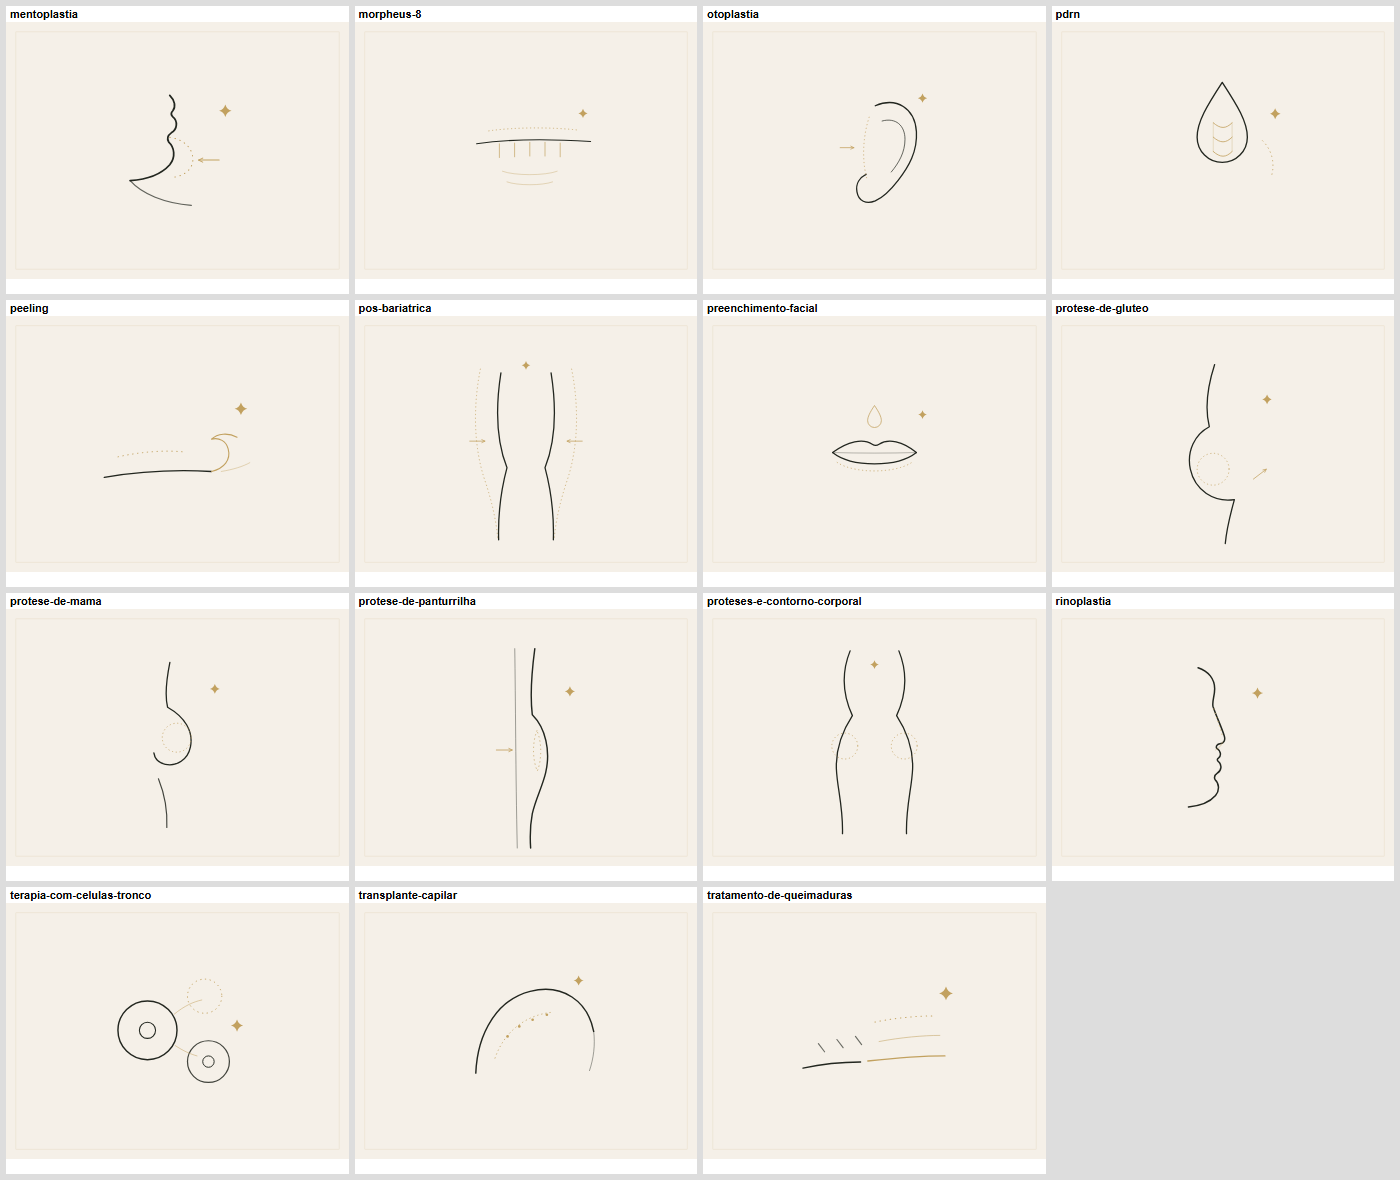
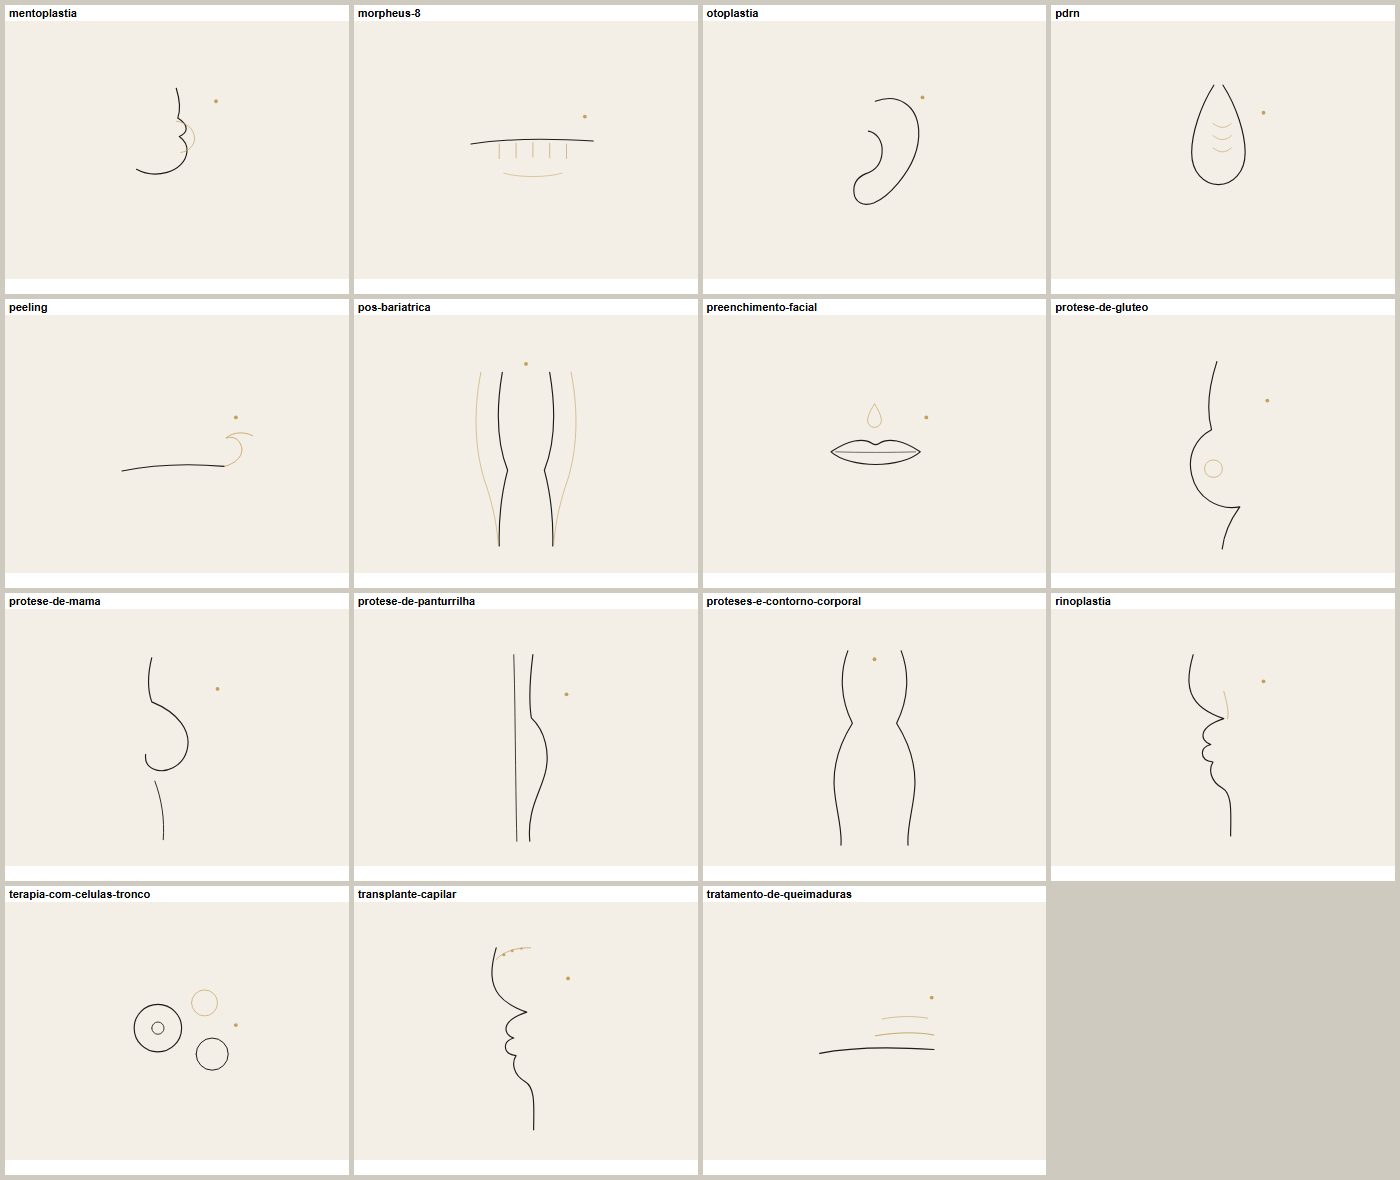
Ilustracoes continuous line art (luxo) nas 31 especialidades

diff --git a/img/ilustracoes/sheet1.html b/img/ilustracoes/sheet1.html
@@ -1,1 +1,1 @@
-<body style="margin:0;background:#ddd;display:grid;grid-template-columns:repeat(4,1fr);gap:6px;padding:6px"><div style="background:#fff"><div style="font:600 11px sans-serif;padding:2px 4px">abdominoplastia</div><img src="abdominoplastia.svg" style="width:100%;display:block"></div><div style="background:#fff"><div style="font:600 11px sans-serif;padding:2px 4px">bichectomia</div><img src="bichectomia.svg" style="width:100%;display:block"></div><div style="background:#fff"><div style="font:600 11px sans-serif;padding:2px 4px">bioestimulador-de-colageno</div><img src="bioestimulador-de-colageno.svg" style="width:100%;display:block"></div><div style="background:#fff"><div style="font:600 11px sans-serif;padding:2px 4px">blefaroplastia</div><img src="blefaroplastia.svg" style="width:100%;display:block"></div><div style="background:#fff"><div style="font:600 11px sans-serif;padding:2px 4px">bodytite</div><img src="bodytite.svg" style="width:100%;display:block"></div><div style="background:#fff"><div style="font:600 11px sans-serif;padding:2px 4px">botox</div><img src="botox.svg" style="width:100%;display:block"></div><div style="background:#fff"><div style="font:600 11px sans-serif;padding:2px 4px">cirurgia-intima</div><img src="cirurgia-intima.svg" style="width:100%;display:block"></div><div style="background:#fff"><div style="font:600 11px sans-serif;padding:2px 4px">correcao-de-cicatriz</div><img src="correcao-de-cicatriz.svg" style="width:100%;display:block"></div><div style="background:#fff"><div style="font:600 11px sans-serif;padding:2px 4px">dermoabrasao</div><img src="dermoabrasao.svg" style="width:100%;display:block"></div><div style="background:#fff"><div style="font:600 11px sans-serif;padding:2px 4px">fios-de-sustentacao</div><img src="fios-de-sustentacao.svg" style="width:100%;display:block"></div><div style="background:#fff"><div style="font:600 11px sans-serif;padding:2px 4px">ginecomastia</div><img src="ginecomastia.svg" style="width:100%;display:block"></div><div style="background:#fff"><div style="font:600 11px sans-serif;padding:2px 4px">harmonizacao-facial</div><img src="harmonizacao-facial.svg" style="width:100%;display:block"></div><div style="background:#fff"><div style="font:600 11px sans-serif;padding:2px 4px">laser-de-co2</div><img src="laser-de-co2.svg" style="width:100%;display:block"></div><div style="background:#fff"><div style="font:600 11px sans-serif;padding:2px 4px">lifting-facial</div><img src="lifting-facial.svg" style="width:100%;display:block"></div><div style="background:#fff"><div style="font:600 11px sans-serif;padding:2px 4px">lipoescultura</div><img src="lipoescultura.svg" style="width:100%;display:block"></div><div style="background:#fff"><div style="font:600 11px sans-serif;padding:2px 4px">mamoplastia</div><img src="mamoplastia.svg" style="width:100%;display:block"></div></body>
+<body style="margin:0;background:#cfcabf;display:grid;grid-template-columns:repeat(4,1fr);gap:5px;padding:5px"><div style="background:#fff"><div style="font:600 11px sans-serif;padding:2px 4px">abdominoplastia</div><img src="abdominoplastia.svg" style="width:100%;display:block"></div><div style="background:#fff"><div style="font:600 11px sans-serif;padding:2px 4px">bichectomia</div><img src="bichectomia.svg" style="width:100%;display:block"></div><div style="background:#fff"><div style="font:600 11px sans-serif;padding:2px 4px">bioestimulador-de-colageno</div><img src="bioestimulador-de-colageno.svg" style="width:100%;display:block"></div><div style="background:#fff"><div style="font:600 11px sans-serif;padding:2px 4px">blefaroplastia</div><img src="blefaroplastia.svg" style="width:100%;display:block"></div><div style="background:#fff"><div style="font:600 11px sans-serif;padding:2px 4px">bodytite</div><img src="bodytite.svg" style="width:100%;display:block"></div><div style="background:#fff"><div style="font:600 11px sans-serif;padding:2px 4px">botox</div><img src="botox.svg" style="width:100%;display:block"></div><div style="background:#fff"><div style="font:600 11px sans-serif;padding:2px 4px">cirurgia-intima</div><img src="cirurgia-intima.svg" style="width:100%;display:block"></div><div style="background:#fff"><div style="font:600 11px sans-serif;padding:2px 4px">correcao-de-cicatriz</div><img src="correcao-de-cicatriz.svg" style="width:100%;display:block"></div><div style="background:#fff"><div style="font:600 11px sans-serif;padding:2px 4px">dermoabrasao</div><img src="dermoabrasao.svg" style="width:100%;display:block"></div><div style="background:#fff"><div style="font:600 11px sans-serif;padding:2px 4px">fios-de-sustentacao</div><img src="fios-de-sustentacao.svg" style="width:100%;display:block"></div><div style="background:#fff"><div style="font:600 11px sans-serif;padding:2px 4px">ginecomastia</div><img src="ginecomastia.svg" style="width:100%;display:block"></div><div style="background:#fff"><div style="font:600 11px sans-serif;padding:2px 4px">harmonizacao-facial</div><img src="harmonizacao-facial.svg" style="width:100%;display:block"></div><div style="background:#fff"><div style="font:600 11px sans-serif;padding:2px 4px">laser-de-co2</div><img src="laser-de-co2.svg" style="width:100%;display:block"></div><div style="background:#fff"><div style="font:600 11px sans-serif;padding:2px 4px">lifting-facial</div><img src="lifting-facial.svg" style="width:100%;display:block"></div><div style="background:#fff"><div style="font:600 11px sans-serif;padding:2px 4px">lipoescultura</div><img src="lipoescultura.svg" style="width:100%;display:block"></div><div style="background:#fff"><div style="font:600 11px sans-serif;padding:2px 4px">mamoplastia</div><img src="mamoplastia.svg" style="width:100%;display:block"></div></body>

diff --git a/img/ilustracoes/sheet2.html b/img/ilustracoes/sheet2.html
@@ -1,1 +1,1 @@
-<body style="margin:0;background:#ddd;display:grid;grid-template-columns:repeat(4,1fr);gap:6px;padding:6px"><div style="background:#fff"><div style="font:600 11px sans-serif;padding:2px 4px">mentoplastia</div><img src="mentoplastia.svg" style="width:100%;display:block"></div><div style="background:#fff"><div style="font:600 11px sans-serif;padding:2px 4px">morpheus-8</div><img src="morpheus-8.svg" style="width:100%;display:block"></div><div style="background:#fff"><div style="font:600 11px sans-serif;padding:2px 4px">otoplastia</div><img src="otoplastia.svg" style="width:100%;display:block"></div><div style="background:#fff"><div style="font:600 11px sans-serif;padding:2px 4px">pdrn</div><img src="pdrn.svg" style="width:100%;display:block"></div><div style="background:#fff"><div style="font:600 11px sans-serif;padding:2px 4px">peeling</div><img src="peeling.svg" style="width:100%;display:block"></div><div style="background:#fff"><div style="font:600 11px sans-serif;padding:2px 4px">pos-bariatrica</div><img src="pos-bariatrica.svg" style="width:100%;display:block"></div><div style="background:#fff"><div style="font:600 11px sans-serif;padding:2px 4px">preenchimento-facial</div><img src="preenchimento-facial.svg" style="width:100%;display:block"></div><div style="background:#fff"><div style="font:600 11px sans-serif;padding:2px 4px">protese-de-gluteo</div><img src="protese-de-gluteo.svg" style="width:100%;display:block"></div><div style="background:#fff"><div style="font:600 11px sans-serif;padding:2px 4px">protese-de-mama</div><img src="protese-de-mama.svg" style="width:100%;display:block"></div><div style="background:#fff"><div style="font:600 11px sans-serif;padding:2px 4px">protese-de-panturrilha</div><img src="protese-de-panturrilha.svg" style="width:100%;display:block"></div><div style="background:#fff"><div style="font:600 11px sans-serif;padding:2px 4px">proteses-e-contorno-corporal</div><img src="proteses-e-contorno-corporal.svg" style="width:100%;display:block"></div><div style="background:#fff"><div style="font:600 11px sans-serif;padding:2px 4px">rinoplastia</div><img src="rinoplastia.svg" style="width:100%;display:block"></div><div style="background:#fff"><div style="font:600 11px sans-serif;padding:2px 4px">terapia-com-celulas-tronco</div><img src="terapia-com-celulas-tronco.svg" style="width:100%;display:block"></div><div style="background:#fff"><div style="font:600 11px sans-serif;padding:2px 4px">transplante-capilar</div><img src="transplante-capilar.svg" style="width:100%;display:block"></div><div style="background:#fff"><div style="font:600 11px sans-serif;padding:2px 4px">tratamento-de-queimaduras</div><img src="tratamento-de-queimaduras.svg" style="width:100%;display:block"></div></body>
+<body style="margin:0;background:#cfcabf;display:grid;grid-template-columns:repeat(4,1fr);gap:5px;padding:5px"><div style="background:#fff"><div style="font:600 11px sans-serif;padding:2px 4px">mentoplastia</div><img src="mentoplastia.svg" style="width:100%;display:block"></div><div style="background:#fff"><div style="font:600 11px sans-serif;padding:2px 4px">morpheus-8</div><img src="morpheus-8.svg" style="width:100%;display:block"></div><div style="background:#fff"><div style="font:600 11px sans-serif;padding:2px 4px">otoplastia</div><img src="otoplastia.svg" style="width:100%;display:block"></div><div style="background:#fff"><div style="font:600 11px sans-serif;padding:2px 4px">pdrn</div><img src="pdrn.svg" style="width:100%;display:block"></div><div style="background:#fff"><div style="font:600 11px sans-serif;padding:2px 4px">peeling</div><img src="peeling.svg" style="width:100%;display:block"></div><div style="background:#fff"><div style="font:600 11px sans-serif;padding:2px 4px">pos-bariatrica</div><img src="pos-bariatrica.svg" style="width:100%;display:block"></div><div style="background:#fff"><div style="font:600 11px sans-serif;padding:2px 4px">preenchimento-facial</div><img src="preenchimento-facial.svg" style="width:100%;display:block"></div><div style="background:#fff"><div style="font:600 11px sans-serif;padding:2px 4px">protese-de-gluteo</div><img src="protese-de-gluteo.svg" style="width:100%;display:block"></div><div style="background:#fff"><div style="font:600 11px sans-serif;padding:2px 4px">protese-de-mama</div><img src="protese-de-mama.svg" style="width:100%;display:block"></div><div style="background:#fff"><div style="font:600 11px sans-serif;padding:2px 4px">protese-de-panturrilha</div><img src="protese-de-panturrilha.svg" style="width:100%;display:block"></div><div style="background:#fff"><div style="font:600 11px sans-serif;padding:2px 4px">proteses-e-contorno-corporal</div><img src="proteses-e-contorno-corporal.svg" style="width:100%;display:block"></div><div style="background:#fff"><div style="font:600 11px sans-serif;padding:2px 4px">rinoplastia</div><img src="rinoplastia.svg" style="width:100%;display:block"></div><div style="background:#fff"><div style="font:600 11px sans-serif;padding:2px 4px">terapia-com-celulas-tronco</div><img src="terapia-com-celulas-tronco.svg" style="width:100%;display:block"></div><div style="background:#fff"><div style="font:600 11px sans-serif;padding:2px 4px">transplante-capilar</div><img src="transplante-capilar.svg" style="width:100%;display:block"></div><div style="background:#fff"><div style="font:600 11px sans-serif;padding:2px 4px">tratamento-de-queimaduras</div><img src="tratamento-de-queimaduras.svg" style="width:100%;display:block"></div></body>

diff --git a/img/ilustracoes/sheetfix.html b/img/ilustracoes/sheetfix.html
@@ -1,0 +1,1 @@
+<body style="margin:0;background:#cfcabf;display:grid;grid-template-columns:repeat(3,1fr);gap:6px;padding:6px"><div style="background:#fff"><div style="font:600 12px sans-serif;padding:3px 6px">ginecomastia</div><img src="ginecomastia.svg" style="width:100%;display:block"></div><div style="background:#fff"><div style="font:600 12px sans-serif;padding:3px 6px">botox</div><img src="botox.svg" style="width:100%;display:block"></div><div style="background:#fff"><div style="font:600 12px sans-serif;padding:3px 6px">bioestimulador-de-colageno</div><img src="bioestimulador-de-colageno.svg" style="width:100%;display:block"></div><div style="background:#fff"><div style="font:600 12px sans-serif;padding:3px 6px">mamoplastia</div><img src="mamoplastia.svg" style="width:100%;display:block"></div><div style="background:#fff"><div style="font:600 12px sans-serif;padding:3px 6px">lipoescultura</div><img src="lipoescultura.svg" style="width:100%;display:block"></div><div style="background:#fff"><div style="font:600 12px sans-serif;padding:3px 6px">rinoplastia</div><img src="rinoplastia.svg" style="width:100%;display:block"></div></body>